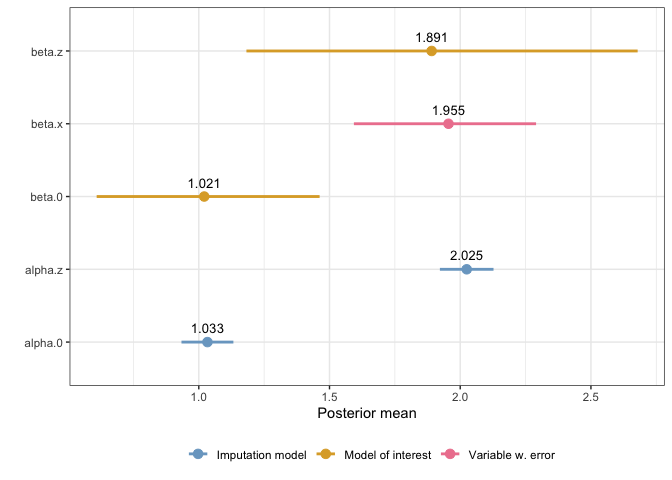
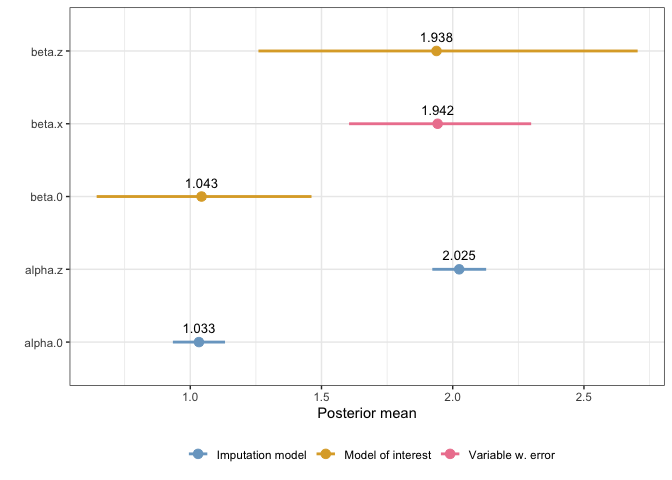
remove formula environment from printing

diff --git a/README.md b/README.md
@@ -9,7 +9,7 @@
 [![R-CMD-check](https://github.com/emmaSkarstein/inlami/actions/workflows/R-CMD-check.yaml/badge.svg)](https://github.com/emmaSkarstein/inlami/actions/workflows/R-CMD-check.yaml)
 <!-- badges: end -->
 
-> :warning: **NOTE** The package is still under development, and some
+> :warning: **NOTE** The package is under development, and some
 > important functionality is still missing. Feel free to get in touch if
 > you would like to use the package, but would like to know more about
 > it’s current limitations.
@@ -136,40 +136,38 @@ Once we have fit the model, we can view the summary:
 summary(simple_model)
 #> Formula for model of interest: 
 #> y ~ x + z
-#> <environment: 0x7fb742bd9518>
 #> 
 #> Formula for imputation model: 
 #> x ~ z
-#> <environment: 0x7fb742bd9518>
 #> 
 #> Error types: 
 #> [1] "classical" "berkson"   "missing"  
 #> 
 #> Fixed effects for model of interest: 
 #>            mean        sd 0.025quant 0.5quant 0.975quant mode          kld
-#> beta.0 1.020779 0.2211861  0.6093435 1.008954   1.462165   NA 2.192841e-07
-#> beta.z 1.890660 0.3935202  1.1822076 1.862592   2.678665   NA 1.883402e-04
+#> beta.0 1.042874 0.2095123  0.6433057 1.039206   1.461921   NA 6.147448e-08
+#> beta.z 1.938090 0.3706152  1.2597232 1.931397   2.704585   NA 3.275361e-05
 #> 
 #> Coefficient for error prone variable: 
 #>            mean        sd 0.025quant 0.5quant 0.975quant mode
-#> beta.x 1.955145 0.1767436   1.593271 1.960075     2.2901   NA
+#> beta.x 1.942433 0.1756671   1.605044 1.939015   2.298852   NA
 #> 
 #> Fixed effects for imputation model: 
 #>             mean         sd 0.025quant 0.5quant 0.975quant mode          kld
-#> alpha.0 1.033068 0.05061362  0.9337587 1.033076   1.132328   NA 2.817012e-12
-#> alpha.z 2.024735 0.05227631  1.9222427 2.024716   2.127334   NA 1.283770e-11
+#> alpha.0 1.033086 0.05063312  0.9337396 1.033094   1.132386   NA 2.598316e-12
+#> alpha.z 2.024694 0.05229666  1.9221582 2.024676   2.127331   NA 1.152871e-11
 #> 
 #> Model hyperparameters (apart from beta.x): 
 #>                                                 mean        sd 0.025quant
-#> Precision for the Gaussian observations    1.1040326 0.3285003  0.5811172
-#> Precision for the Gaussian observations[2] 1.0866549 0.3115291  0.5794241
-#> Precision for the Gaussian observations[3] 0.9361987 0.1069106  0.7487714
-#> Precision for the Gaussian observations[4] 0.9694880 0.1072114  0.7719423
+#> Precision for the Gaussian observations    1.1301553 0.3383802  0.5850415
+#> Precision for the Gaussian observations[2] 1.0473862 0.2741746  0.6230968
+#> Precision for the Gaussian observations[3] 0.9395991 0.1098593  0.7363208
+#> Precision for the Gaussian observations[4] 0.9610432 0.1203167  0.7514060
 #>                                             0.5quant 0.975quant mode
-#> Precision for the Gaussian observations    1.0635626   1.864750   NA
-#> Precision for the Gaussian observations[2] 1.0518426   1.797655   NA
-#> Precision for the Gaussian observations[3] 0.9280689   1.169881   NA
-#> Precision for the Gaussian observations[4] 0.9648352   1.194554   NA
+#> Precision for the Gaussian observations    1.0911721   1.905370   NA
+#> Precision for the Gaussian observations[2] 1.0085937   1.698301   NA
+#> Precision for the Gaussian observations[3] 0.9351223   1.169360   NA
+#> Precision for the Gaussian observations[4] 0.9514879   1.225613   NA
 ```
 
 And we can use the default plot function to see a plot of the fixed
